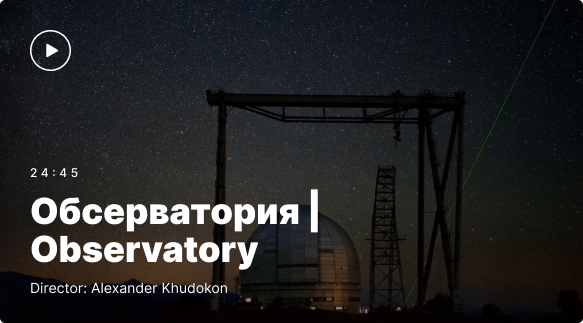
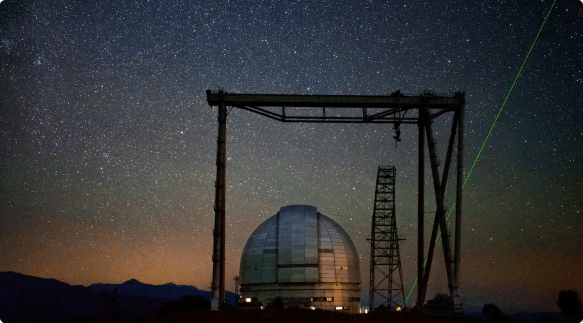
updated video section

diff --git a/blocks/video/__picture/video__picture.css b/blocks/video/__picture/video__picture.css
@@ -1,16 +1,97 @@
 
-.video__picture {
-    width: 100%;
-    height: 100%;
-    object-fit: contain;
-}  
+.video__picture-icon {
+    max-width: 41px;
+    margin: 30px 0 94px;
+}
+
+.video__picture-duration {
+    font-family: 'Inter','Arial', 'Helvetica', sans-serif;
+    font-style: normal;
+    font-weight: 500;
+    font-size: 12px;
+    line-height: 13px;
+    letter-spacing: 0.3em;
+    margin:0 0 12px;
+}
+
+.video__picture-title {
+    max-width: 322px;
+    font-family: 'Inter','Arial', 'Helvetica', sans-serif;
+    font-style: normal;
+    font-weight: 900;
+    font-size: 36px;
+    line-height: 39px;
+    margin: 0 0 18px;
+}
+
+.video__picture-subtitle {
+    font-family: 'Inter','Arial', 'Helvetica', sans-serif;
+    font-style: normal;
+    font-weight: normal;
+    font-size: 14px;
+    line-height: 15px;
+    margin: 0 0 30px;
+
+}
+
+@media screen  and (max-width: 1024px) {
+    .video__picture-icon {
+        margin: 30px 0 54px;
+    }
+
+    .video__picture-subtitle {
+        margin: 0 0 35px;
+    }
+}
+
+@media screen  and (max-width: 768px) {
+    .video__picture-icon {
+        max-width: 42px;
+        margin: 25px 0 36px;
+
+    }
+
+    .video__picture-duration {
+        margin:0 0 8px;
+    }
+
+    .video__picture-title {
+        font-size: 24px;
+        line-height: 26px;
+        margin: 0 0 12px;
+    }
+
+    .video__picture-subtitle {
+        margin: 0 0 24px;
+    }
+
+}
 
 
-@media screen and (max-width: 320px) {
 
-     .video__picture{
-        object-fit: cover;
-        object-position: left;
-     }
-     
+@media screen  and (max-width: 375px) {
+    .video__picture-icon {
+        max-width: 41px;
+        margin: 24px 0 41px;
+
+    }
+
+    .video__picture-title {
+        font-size: 24px;
+        line-height: 26px;
+        margin: 0 0 2px;
+    }
+
+}
+
+
+@media screen  and (max-width: 320px) {
+    .video__picture-icon {
+        margin: 16px 0 49px;
+    }
+
+    .video__picture-subtitle {
+        margin: 0 0 16px;
+    }
+
 }

diff --git a/index.html b/index.html
@@ -200,10 +200,18 @@
                 <p class="video__subtitle">Видео от студии Stereotactic о местах в России, где ведутся
                     фундаментальные исследования</p>
                 <div class="video__container">
-                    <a href="https://vimeo.com/81106671" class="video__container-item link"><img class="video__picture"
-                            src="./images/video_kamchatka.png" alt="Видео Камчатка"></a>
-                    <a href="https://vimeo.com/290675450" class="video__container-item link">
-                        <img class="video__picture" src="./images/video_observatorya.png" alt="Видео Обсерватория"></a>
+                    <a href="https://vimeo.com/81106671" class="video__container-item video__container-kamchatka link">
+                        <img class="video__picture-icon" src="./images/icon_play.svg" alt="кнопка плэй">
+                        <p class="video__picture-duration">6:30</p>
+                        <p class="video__picture-title">Colors of Kamchatka</p>
+                        <p class="video__picture-subtitle">Director: Pavel Karykhalin</p>
+                    </a>
+                    <a href="https://vimeo.com/290675450" class="video__container-item video__container-observatorya link">
+                        <img class="video__picture-icon" src="./images/icon_play.svg" alt="кнопка плэй">
+                        <p class="video__picture-duration">24:45</p>
+                        <p class="video__picture-title">Обсерватория | Observatory</p>
+                        <p class="video__picture-subtitle">Director: Alexander Khudokon</p>
+                    </a>
                 </div>
             </section>
 

diff --git a/blocks/video/__container/video__container.css b/blocks/video/__container/video__container.css
@@ -11,8 +11,27 @@
 
 .video__container-item {
    max-width: 583px;
+   display: flex;
+   flex-direction: column;
+   padding-left: 30px;
+
 }
 
+.video__container-kamchatka {
+    background-image: url(../../../images/video_kamchatka.png);
+    background-size: cover;
+    background-repeat: no-repeat;
+    background-origin: border-box;
+    position: relative;
+}
+
+.video__container-observatorya {
+    background-image: url(../../../images/video_observatorya.png);
+    background-size: cover;
+    background-repeat: no-repeat;
+    background-origin: border-box;
+    position: relative;
+}
 
 
 @media screen and (max-width: 1280px) {
@@ -27,18 +46,27 @@
     
     .video__container {
         max-width: 928px;
+        min-height: 228px;
     }
 
+    .video__container-item {
+        max-width: 456px;
+     }
 }
 
 @media screen and (max-width: 768px) {
    
     .video__container {
-        max-width: 1184px;
+        max-width: 720px;
         min-height: 200px;
         margin: 56px 0 0;
         gap: 16px;
     }
+
+    .video__container-item {
+        max-width: 456px;
+        min-height: 200px;
+     }
 
 }
 
@@ -53,9 +81,17 @@
         gap: 8px;
     }
 
+    .video__container-item {
+        max-width: 343px;
+     }
+
 }
 
 @media screen and (max-width: 320px) {
+    .video__container {
+        max-width: 282px;
+        min-height: 392px;
+    }
 
     .video__container-item {
         max-width: 288px;

diff --git a/blocks/places/__item/place__item.css b/blocks/places/__item/place__item.css
@@ -9,6 +9,7 @@
 }
 
 @media screen and (max-width: 1024px) {
+    
     .place__item {
         max-width: 928px;
         grid-template-columns: 440px 456px;
@@ -20,6 +21,7 @@
 }
 
 @media screen and (max-width: 965px) {
+
     .place__item {
         max-width: 720px;
         grid-template-columns: 340px 352px;

diff --git a/blocks/places/__image/place__image.css b/blocks/places/__image/place__image.css
@@ -16,6 +16,7 @@
 }
 
 @media screen and (max-width: 965px){
+    
     .place__image{
         max-width: 340px;
         height: 340px;
@@ -24,6 +25,7 @@
 }
 
 @media screen and (max-width: 530px) {
+
     .place__image{
         max-width: 375px;
         height: 375px;

diff --git a/blocks/places/places.css b/blocks/places/places.css
@@ -16,7 +16,7 @@
 
 
 @media screen and (max-width: 1024px) {
-
+    
     .places {
         max-width: 928px;
     }
@@ -45,6 +45,7 @@
 
 
 @media screen and (max-width: 320px) {
+
     .places {
         max-width: 320px;
     }

diff --git a/blocks/video/__subtitle/video__subtitle.css b/blocks/video/__subtitle/video__subtitle.css
@@ -6,7 +6,7 @@
     font-style: normal;
     font-weight: normal;
     font-size: 24px;
-    line-height: 35px;
+    line-height: 28px;
     text-align: center;
     margin: 48px auto 0;
 }

diff --git a/blocks/video/__title/video__title.css b/blocks/video/__title/video__title.css
@@ -6,7 +6,7 @@
     font-style: normal;
     font-weight: 900;
     font-size: 72px;
-    line-height: 78px;
+    line-height: 73px;
     text-align: center;
     margin: 0 auto;
 }

diff --git a/blocks/video/video.css b/blocks/video/video.css
@@ -11,14 +11,6 @@
 }
 
 
-@media screen and (max-width: 1280px) {
-
-    .video {
-        max-width: 1184px;
-    }
-
-}
-
 @media screen  and (max-width: 1024px) {
 
     .video {

diff --git a/blocks/places/__title/place__title.css b/blocks/places/__title/place__title.css
@@ -11,12 +11,6 @@
 }
 
 
-@media screen and (max-width: 1024px) {
-
-    
-
-}
-
 @media screen and (max-width: 965px){
 
     .place__title {

diff --git a/blocks/places/__paragraph/place__paragraph.css b/blocks/places/__paragraph/place__paragraph.css
@@ -42,7 +42,6 @@
 }
 
 
-
 @media screen and (max-width: 320px) {
     
     .place__paragraph{
